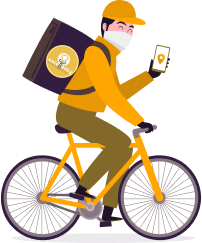
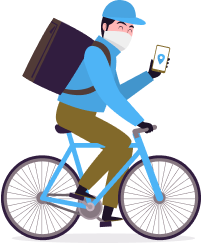
done added

diff --git a/lib/core/const/color_const.dart b/lib/core/const/color_const.dart
@@ -3,7 +3,7 @@
 import 'dart:ui';
 
 class ColorConst{
-  static const baseColor = Color(0xff468cf6);
+  static const baseColor = Color(0xff38BDF8);
   static const sliverAppbarColor = Color(0xffF6E2AD);
   static const foodCardBacColor = Color(0xffF9EBC8);
   static const defaultBackground = Color(0xFFFFF8E1);
